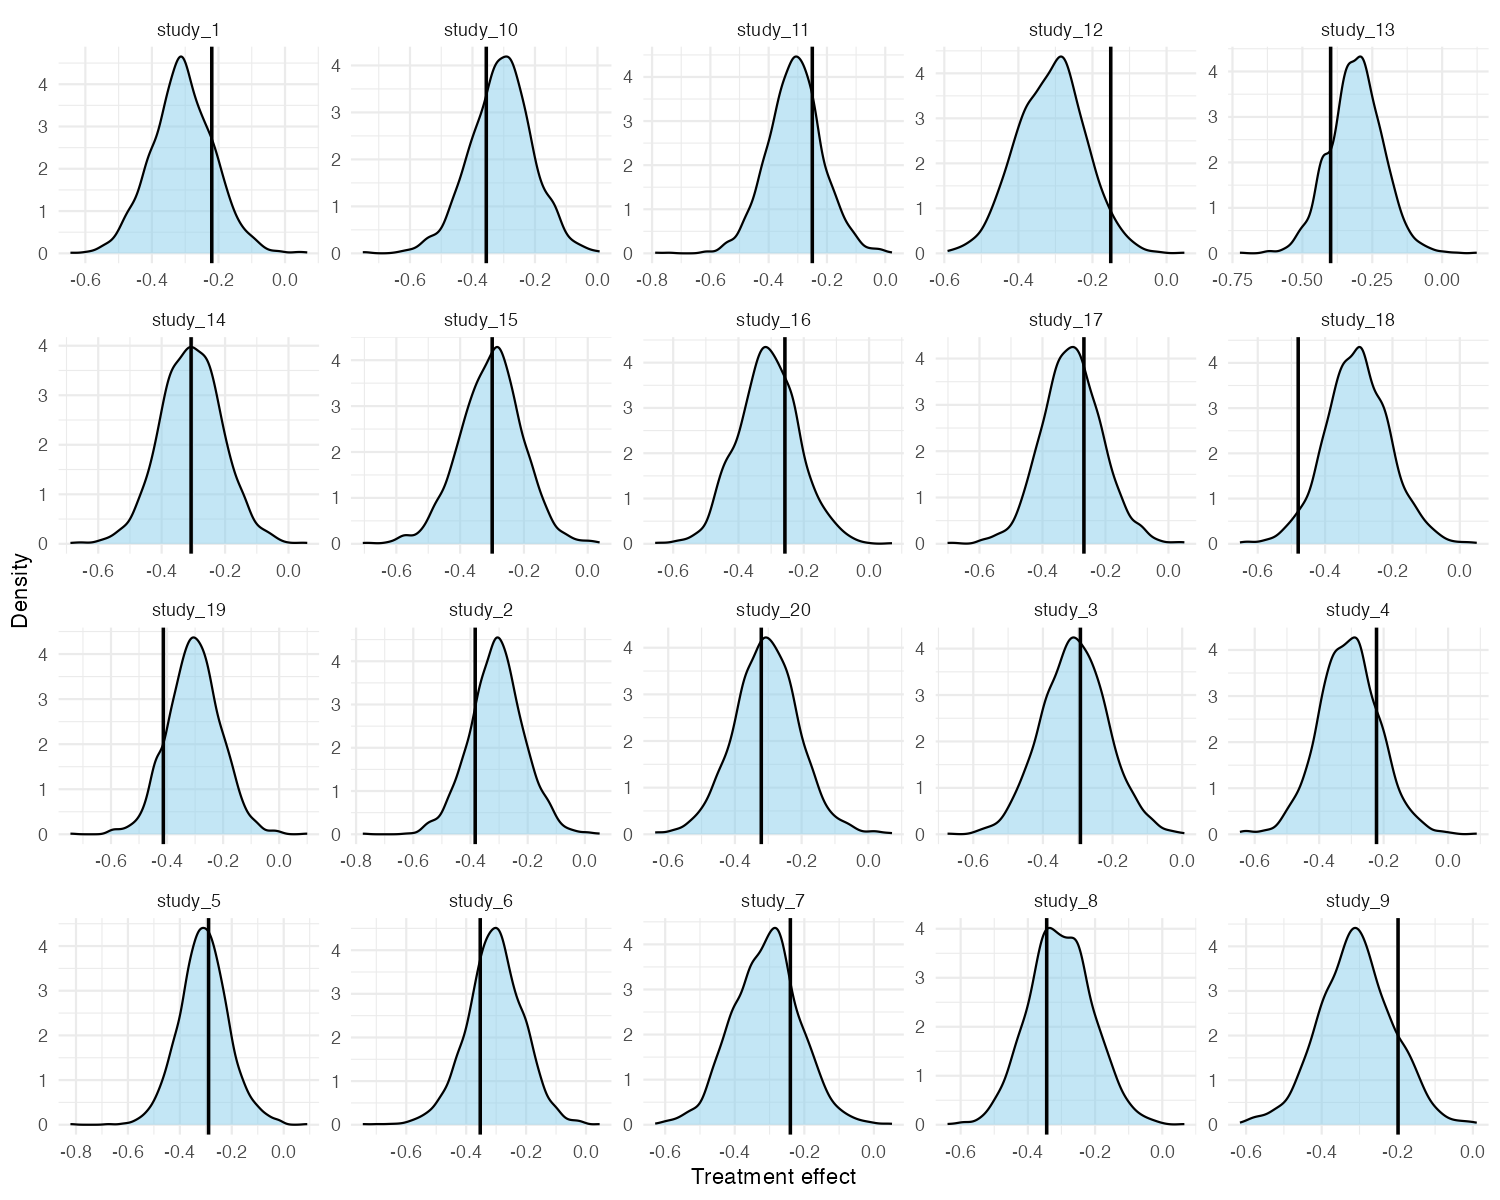
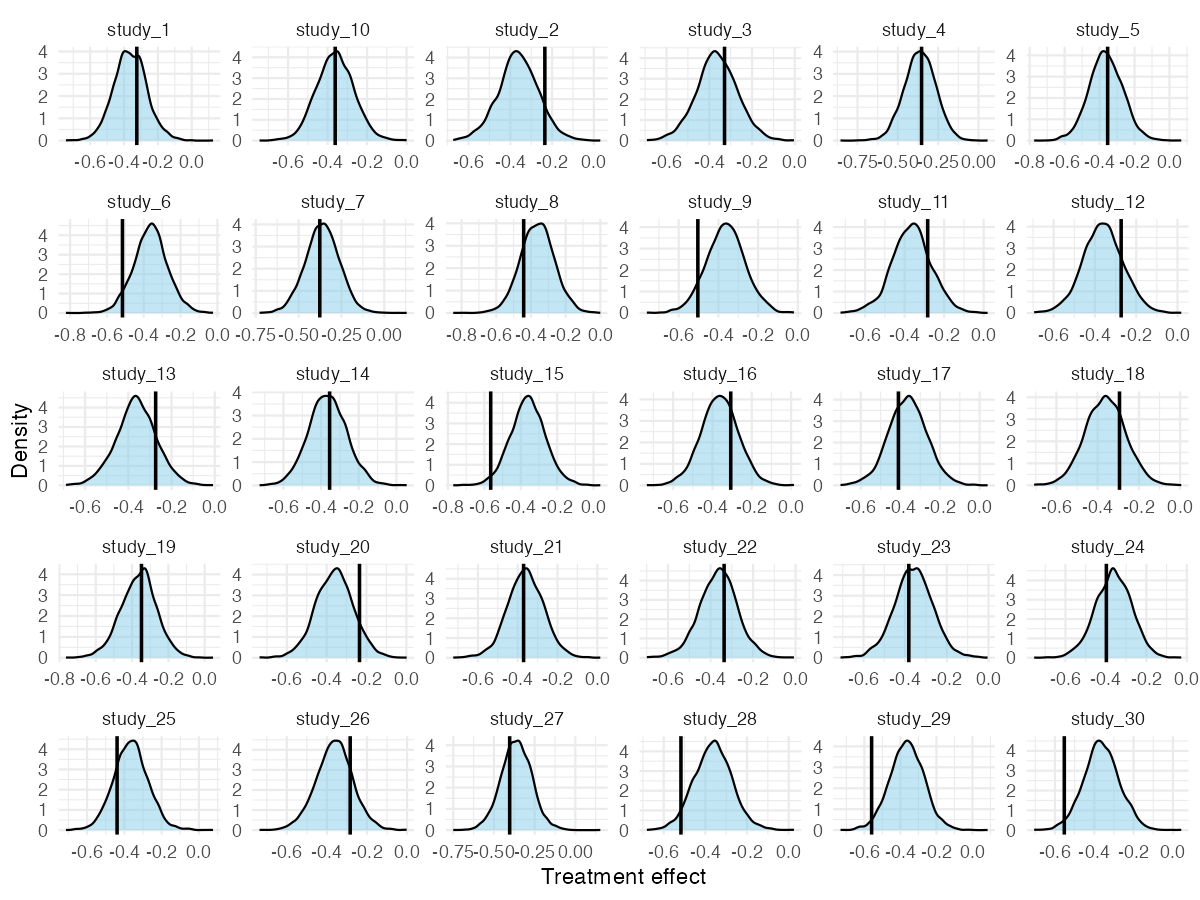
added readme example where we compare full did with mixed design

diff --git a/README.md b/README.md
@@ -98,10 +98,10 @@ control group.
 Different study designs correspond to observing subsets of this latent
 structure:
 
-- **DiD / RCT**: both groups and both time points observed  
-- **Pre-post**: treatment group only  
-- **Post-only / change-score**: partial observations of levels or
-  differences
+- **DiD**: both groups and both time points observed  
+- **RCT**: both groups, post-treatment only  
+- **Pre-post**: treatment group only, both time points  
+- **Change-score**: partial observations of differences
 
 Inference for incomplete designs relies on the shared latent structure
 across studies.
@@ -138,7 +138,7 @@ The model supports both:
 - **individual-level data**, and  
 - **summary statistics** (means, variances, sample sizes)
 
-by deriving likelihoods from the same bivariate normal model.
+by deriving likelihoods from the same latent bivariate normal structure.
 
 ------------------------------------------------------------------------
 
@@ -181,122 +181,127 @@ pak::pak("ben18785/metadid")
 ### 1. Simulate studies
 
 `simulate_meta_did()` generates individual-level pre/post data for both
-arms across a set of studies from a known hierarchical model.
-`as_summary_did()` then aggregates this to the four-cell summary
-statistics (pre/post × control/treatment) that represent what is
-typically reported in a published study.
+arms across a set of studies from a known hierarchical model. We
+simulate 30 studies from a shared latent DiD structure:
 
 ``` r
 library(metadid)
-#> 
-#> Attaching package: 'metadid'
-#> The following object is masked from 'package:base':
-#> 
-#>     gamma
+library(dplyr)
+library(ggplot2)
 
 sim <- simulate_meta_did(
-  n_studies     = 20,
+  n_studies     = 30,
+  n_control     = 80,
+  n_treatment   = 80,
   true_effect   = -0.15,
   sigma_effect  = 0.03,
+  true_trend    = -0.02,
+  sigma_trend   = 0.01,
   baseline_mean = 0.45,
+  baseline_sd   = 0.02,
   rho           = 0.5,
-  seed          = 42
+  seed          = 7251
 )
-
-studies <- as_summary_did(sim)
-head(studies)
-#> # A tibble: 6 × 13
-#>   study_id design n_control n_treatment mean_pre_control mean_post_control
-#>   <chr>    <chr>      <int>       <int>            <dbl>             <dbl>
-#> 1 study_1  did          100         100            0.450             0.418
-#> 2 study_10 did          100         100            0.448             0.435
-#> 3 study_11 did          100         100            0.420             0.409
-#> 4 study_12 did          100         100            0.475             0.444
-#> 5 study_13 did          100         100            0.447             0.435
-#> 6 study_14 did          100         100            0.461             0.416
-#> # ℹ 7 more variables: sd_pre_control <dbl>, sd_post_control <dbl>,
-#> #   mean_pre_treatment <dbl>, mean_post_treatment <dbl>,
-#> #   sd_pre_treatment <dbl>, sd_post_treatment <dbl>, rho <dbl>
 ```
 
 The true population treatment effect is `-0.15` on the raw scale, or
-approximately -0.333 after normalising by the baseline mean of `0.45`.
+approximately `-0.333` after normalising by the baseline mean of `0.45`.
 
-### 2. Fit the model via optimisation
+### 2. Two scenarios from the same data
 
-`meta_did()` fits a hierarchical Bayesian model. Setting
-`method = "optimize"` finds the maximum a posteriori (MAP) estimate via
-L-BFGS — this is faster than MCMC but provides no uncertainty measures
-in estimates.
+In the best case, every study provides full four-cell summary statistics
+(pre/post × control/treatment). This gives the model maximum information
+per study:
 
 ``` r
-fit <- meta_did(
-  summary_data = studies,
-  method       = "optimize",
-  seed         = 42
+all_did <- as_summary_did(sim)
+
+fit_all_did <- meta_did(
+  summary_data = all_did,
+  seed         = 7251
 )
 
-print(fit)
+print(fit_all_did)
 ```
 
     #> Bayesian meta-analysis (metadid)
-    #> Studies: DiD = 20 | RCT = 0 | Pre-Post = 0 | DiD (change only) = 0 
-    #> Population treatment effect: -0.303  (MAP estimate, no uncertainty)
+    #> Studies: DiD = 30 | RCT = 0 | Pre-Post = 0 | DiD (change only) = 0 
+    #> Population treatment effect: -0.363  90% CI [-0.392, -0.334]
 
-### 3. Inspect study-level estimates
-
-`summary()` returns a data frame of population- and study-level
-parameters. With MAP optimisation, only point estimates are available
-(`sd`, `lo`, and `hi` are `NA`); use `method = "sample"` for full
-posterior uncertainty.
+Now suppose, from the same underlying data, only a third of studies
+provide full DiD information. Another third are RCTs (post-treatment
+outcomes only), and the remaining third are pre-post studies (treatment
+arm only):
 
 ``` r
-summary(fit)
-```
+study_ids <- unique(sim$study_id)
+true_params <- attr(sim, "true_params")
 
-    #>                       parameter       mean sd lo hi
-    #> 1         treatment_effect_mean -0.3032553 NA NA NA
-    #> 2           treatment_effect_sd  0.2621790 NA NA NA
-    #> 3  treatment_effect_did_summary -0.2626185 NA NA NA
-    #> 4  treatment_effect_did_summary -0.4008142 NA NA NA
-    #> 5  treatment_effect_did_summary -0.1788253 NA NA NA
-    #> ...
+sim_did <- sim |> filter(study_id %in% study_ids[1:10])
+sim_rct <- sim |> filter(study_id %in% study_ids[11:20])
+sim_pp  <- sim |> filter(study_id %in% study_ids[21:30])
 
-### 4. Fit the model via MCMC
+attr(sim_did, "true_params") <- true_params |> filter(study_id %in% study_ids[1:10])
+attr(sim_rct, "true_params") <- true_params |> filter(study_id %in% study_ids[11:20])
+attr(sim_pp, "true_params")  <- true_params |> filter(study_id %in% study_ids[21:30])
 
-For full posterior uncertainty, use the default `method = "sample"`:
-
-``` r
-fit_mcmc <- meta_did(
-  summary_data  = studies,
-  seed          = 42,
-  iter_warmup   = 200,
-  iter_sampling = 400
+mixed <- bind_rows(
+  as_summary_did(sim_did),
+  as_summary_rct(sim_rct),
+  as_summary_pp(sim_pp)
 )
 
-print(fit_mcmc)
+fit_mixed <- meta_did(
+  summary_data = mixed,
+  seed         = 7251
+)
+
+print(fit_mixed)
 ```
 
     #> Bayesian meta-analysis (metadid)
-    #> Studies: DiD = 20 | RCT = 0 | Pre-Post = 0 | DiD (change only) = 0 
-    #> Population treatment effect: -0.307  90% CI [-0.341, -0.273]
+    #> Studies: DiD = 10 | RCT = 10 | Pre-Post = 10 | DiD (change only) = 0 
+    #> Population treatment effect: -0.362  90% CI [-0.394, -0.331]
 
-`summary()` now includes posterior standard deviations and credible
-intervals:
+### 3. Comparing posteriors
+
+Both fits recover the true normalised effect (−0.333, dashed line). The
+mixed-design posterior is slightly wider, reflecting the information
+lost by having two-thirds of the studies provide incomplete data — but
+the difference is modest.
 
 ``` r
-summary(fit_mcmc)
+draws_did <- as.numeric(
+  fit_all_did$fit$draws("treatment_effect_mean", format = "draws_matrix")
+)
+draws_mix <- as.numeric(
+  fit_mixed$fit$draws("treatment_effect_mean", format = "draws_matrix")
+)
+
+comp_df <- data.frame(
+  value = c(draws_did, draws_mix),
+  scenario = rep(c("All DiD (30 studies)", "Mixed designs (10 DiD + 10 RCT + 10 PP)"),
+                 each = length(draws_did))
+)
+
+ggplot(comp_df, aes(x = value, fill = scenario)) +
+  geom_density(alpha = 0.4) +
+  geom_vline(xintercept = -0.15 / 0.45, linetype = "dashed", linewidth = 0.8) +
+  annotate("text", x = -0.15 / 0.45 + 0.003, y = Inf, label = "True effect",
+           hjust = 0, vjust = 1.5, size = 3.5) +
+  labs(x = "Population treatment effect (normalised)", y = "Density", fill = NULL) +
+  theme_minimal() +
+  theme(legend.position = "bottom")
 ```
 
-    #>                       parameter        mean         sd          lo         hi
-    #> 1         treatment_effect_mean -0.30734301 0.02053925 -0.34109011 -0.2731060
-    #> 2           treatment_effect_sd  0.08387904 0.01614552  0.06170731  0.1124974
-    #> 3  treatment_effect_did_summary -0.23482038 0.02605055 -0.27537815 -0.1916570
-    #> 4  treatment_effect_did_summary -0.35087501 0.02539211 -0.39315193 -0.3085825
-    #> 5  treatment_effect_did_summary -0.22512112 0.02910410 -0.27397179 -0.1791810
-    #> ...
+![](man/figures/README-comparison.png)
 
-### 5. Posterior predictive checks
+The key takeaway: by assuming a common latent DiD structure, the model
+borrows strength across designs. RCT and pre-post studies contribute
+meaningful information about the treatment effect, even though they each
+observe less of the underlying process than a full DiD study.
+
+### 4. Posterior predictive checks
 
 `pp_check_cdf(type = "summary")` compares the empirical CDF of observed
 study-level treatment effects (step function) to the posterior
@@ -304,7 +309,7 @@ predictive CDF (ribbon and dashed median). If the model is
 well-calibrated, the observed ECDF should track the predictive band.
 
 ``` r
-pp_check_cdf(fit_mcmc, type = "summary")
+pp_check_cdf(fit_mixed, type = "summary")
 ```
 
 ![](man/figures/README-pp-check-cdf-1.png)
@@ -313,7 +318,7 @@ For a more granular per-study view, `pp_check_effects()` shows each
 study’s observed naive effect against its posterior predictive density:
 
 ``` r
-pp_check_effects(fit_mcmc)
+pp_check_effects(fit_mixed)
 ```
 
 ![](man/figures/README-pp-check-effects-1.png)